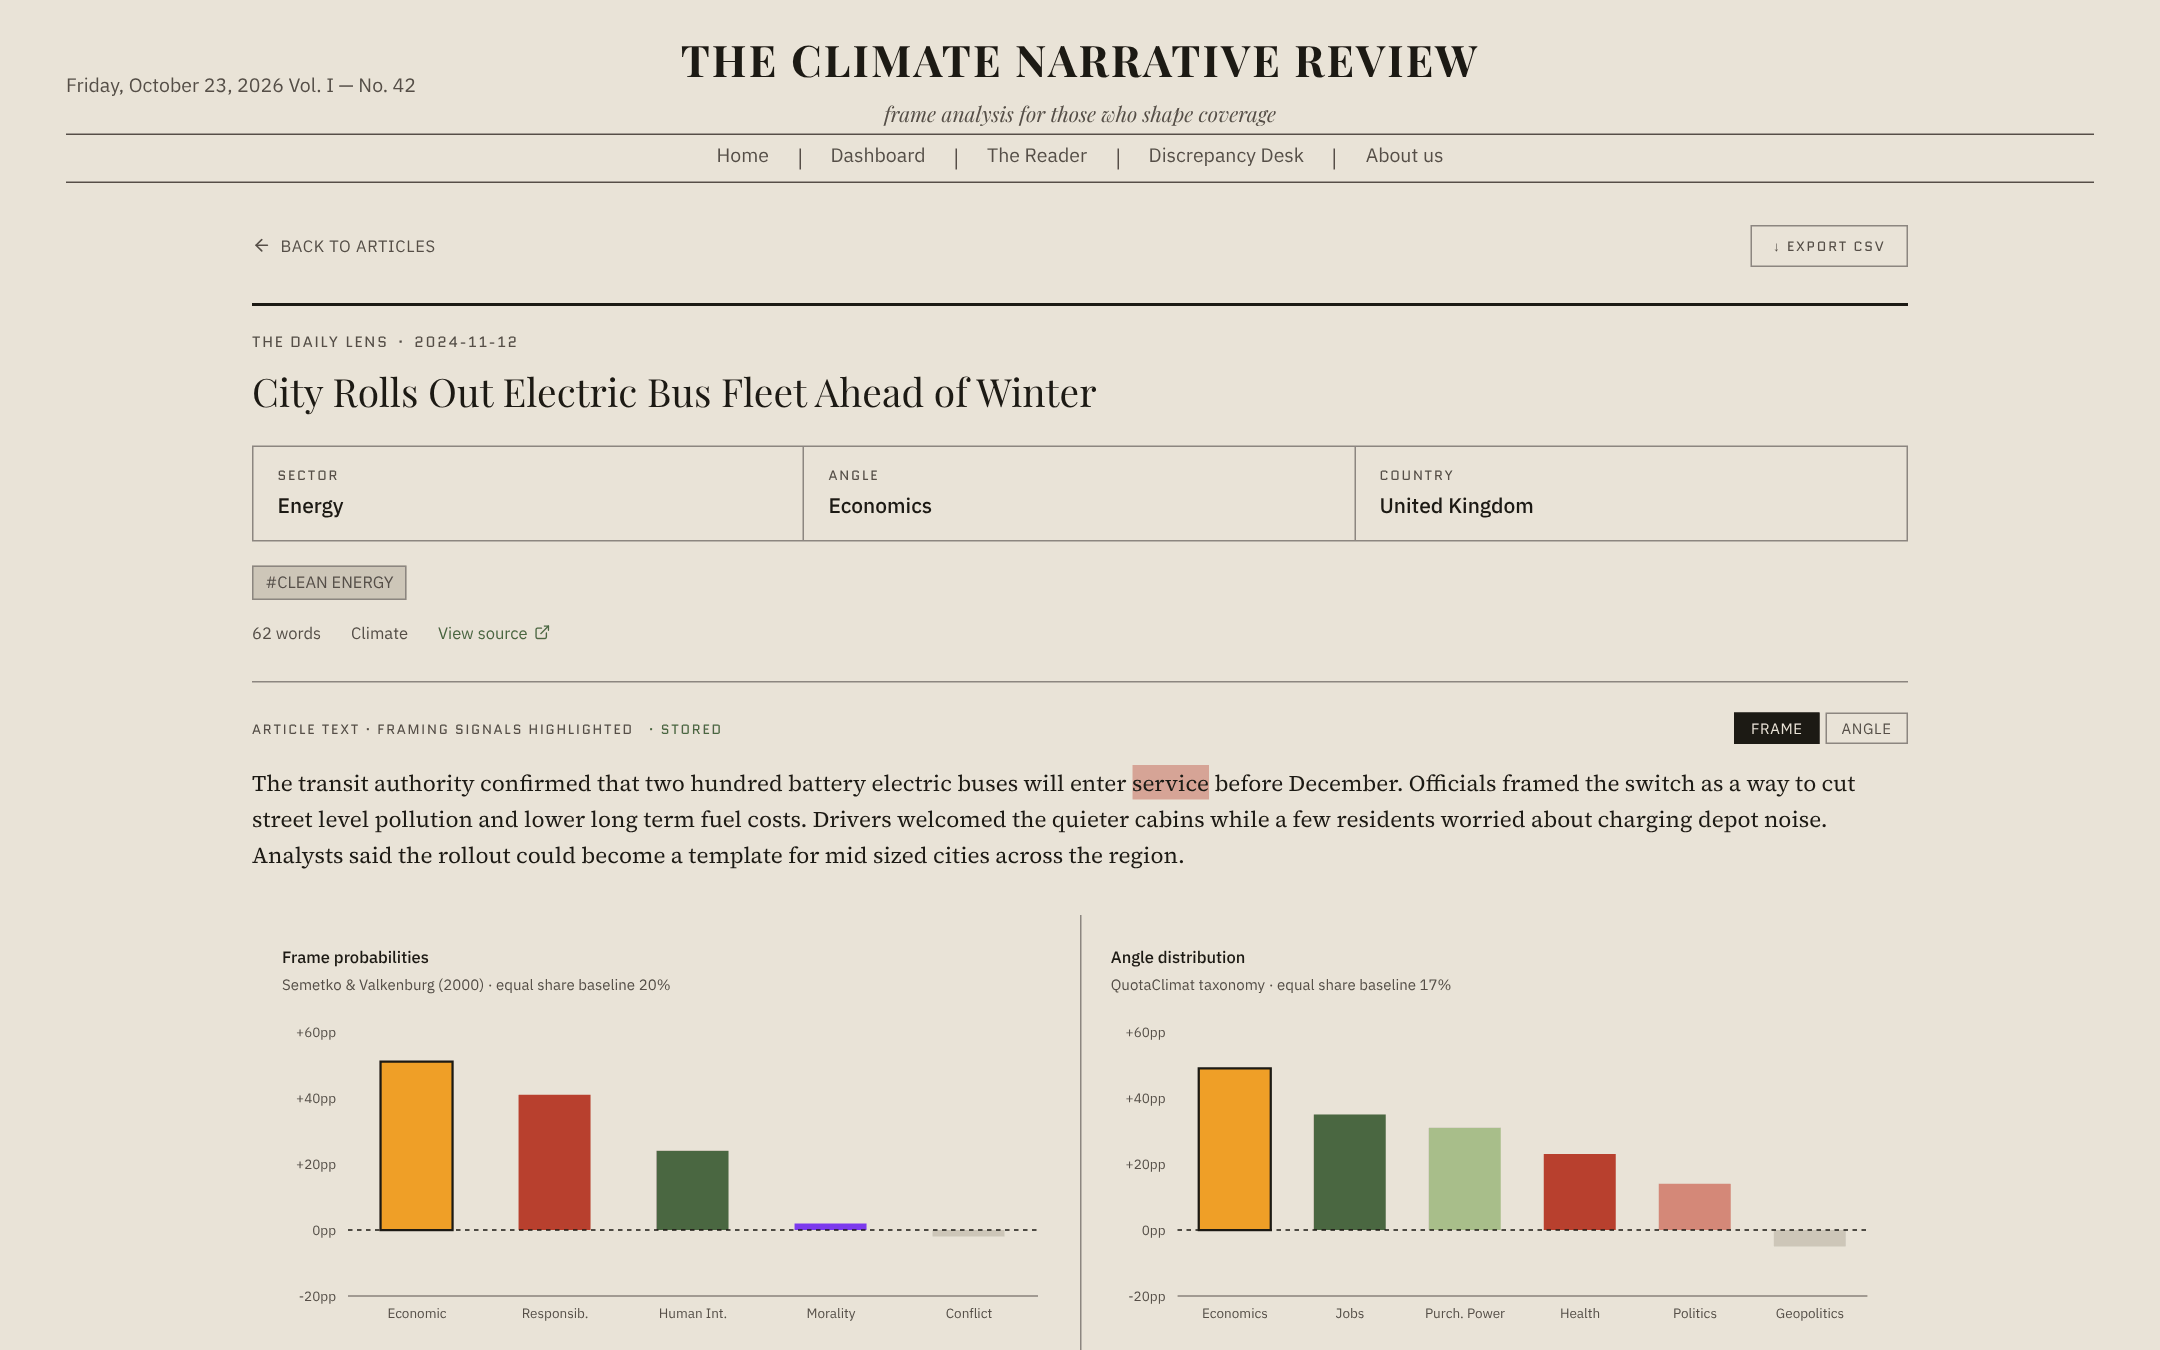
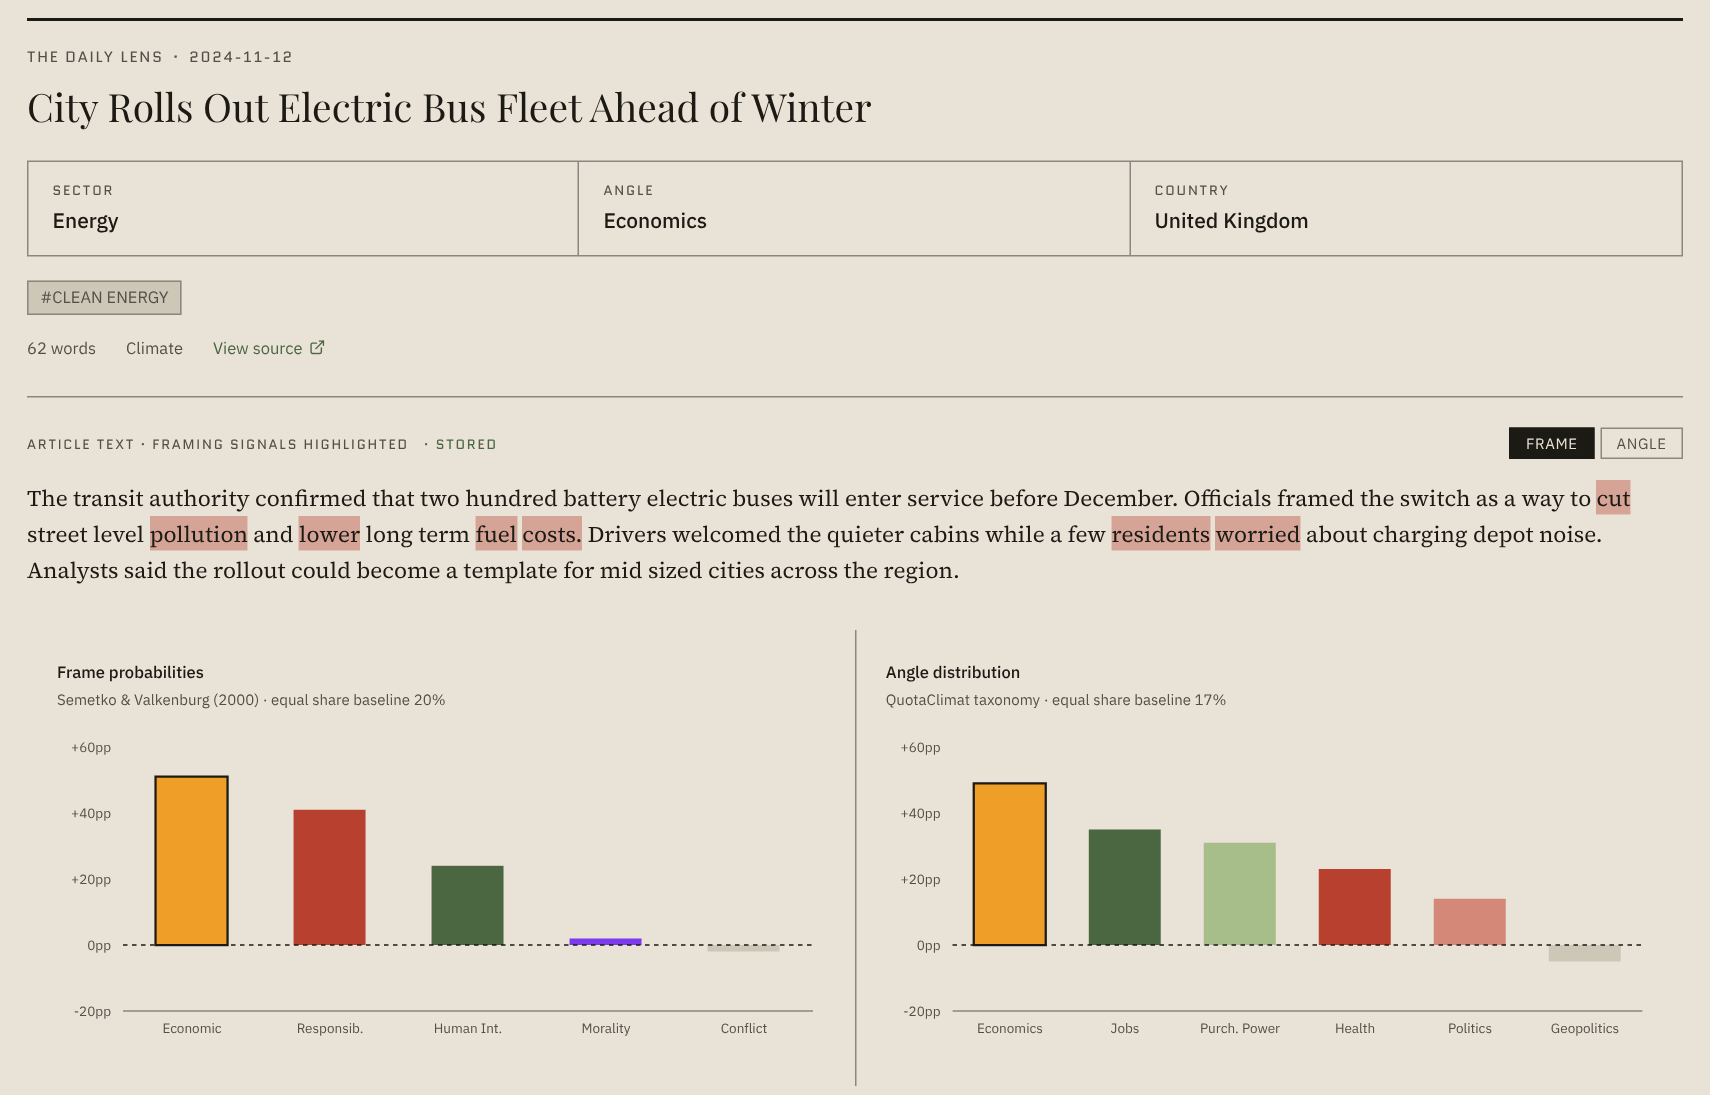
Replace README screenshots with fuller views
Claude-Session: https://claude.ai/code/session_018nFb9MmqiTvoW1otoiWqFQ

diff --git a/README.md b/README.md
@@ -13,14 +13,16 @@ A dashboard and classification pipeline that tracks **how news outlets frame env
 ---
 
 <p align="center">
-  <img src="docs/screenshots/dashboard.png" alt="Dashboard: frame distribution and coverage overview" width="100%">
+  <img src="docs/screenshots/dashboard.png" alt="Dashboard: coverage over time, frame distribution, editorial angles and sectors" width="100%">
 </p>
 
-| The Reader: filter and search articles | Article view: classifier output and highlighted signals |
+| Article view: frame and angle probabilities with highlighted signal words | The Reader: filter articles by sector, angle, frame and outlet |
 |---|---|
-| ![Reader](docs/screenshots/reader.png) | ![Article view](docs/screenshots/article.png) |
+| ![Article view](docs/screenshots/article.png) | ![The Reader](docs/screenshots/reader.png) |
+| **Discrepancy Desk:** compare framing across outlets and countries | **Coverage vs. emissions:** media share against each sector's GHG share |
+| ![Discrepancy Desk](docs/screenshots/discrepancy-desk.png) | ![Coverage vs emissions](docs/screenshots/coverage-vs-emissions.png) |
 
-<sub>Screenshots use the synthetic demo dataset included in the repo.</sub>
+<sub>Screenshots show synthetic sample data, not the licensed corpus.</sub>
 
 ---
 
